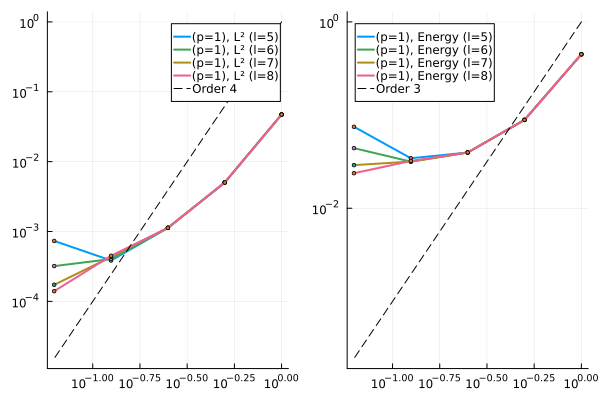
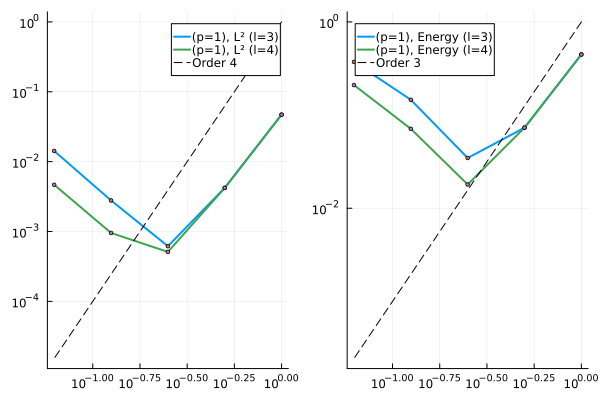
Change the code so that the interior dofs are extracted only once

diff --git a/README.md b/README.md
@@ -619,7 +619,7 @@ Convergence rates | |
 ![](./2d_HigherOrderMS/Images/2d_ooc_Poisson_p0_A_1.0.png) | ![](./2d_HigherOrderMS/Images/2d_ooc_Poisson_p1_A_1.0.png) | 
 
 
-The rates of convergence seem to be optimal as most of the rates are parallel to the reference lines. The slow-down in the convergence rates is expected in the higher order method due to the presence of growth term associated with the patch size (See [Maier, R.](https://epubs.siam.org/doi/abs/10.1137/20M1364321)). Also, the fine scale parameter $h=2^{-7}$ may not be fine enough to provide meaningful convergence as $H\to 0$ and higher values of `p`. **More tests are required to test the method for higher values of `p`.**
+The rates of convergence seem to be optimal as most of the rates are parallel to the reference lines. The slow-down in the convergence rates is expected in the higher order method due to the presence of growth term associated with the patch size (See [Maier, R.](https://epubs.siam.org/doi/abs/10.1137/20M1364321)). For the `p=1` case in the above figure, a much smaller find scale parameter needs to be used, in this case, $h=2^{-9}$. We again observe optimal convergence in both $L^2$- and $H^1$-errors.
 
 ## References
 
